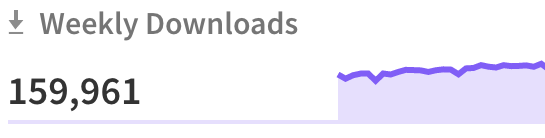
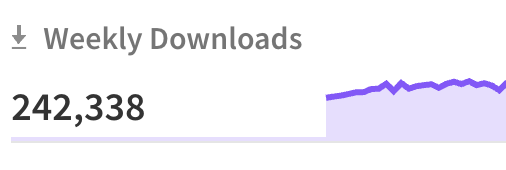
Update open source project stats

Changed region(s): [[0.0, 0.4348, 1.0, 0.8406], [0.0, 0.087, 0.5929, 0.3478], [0.0, 0.8406, 1.0, 0.8986]]

diff --git a/index.html b/index.html
@@ -535,7 +535,7 @@
               <p>
                 A simple yet powerful <strong>VSCode extension</strong> to add
                 wrapper snippets around your code blocks which got
-                <strong>94K+</strong> installs so far.
+                <strong>130K+</strong> installs so far.
               </p>
               <p class="worked-with">
                 <a
@@ -591,7 +591,7 @@
               <p>
                 A small javascript library to help developers to sanitize their
                 environment variables. It's getting
-                <strong>175K+</strong> weekly downloads at the moment
+                <strong>240K+</strong> weekly downloads at the moment
               </p>
               <p class="worked-with">
                 <a
